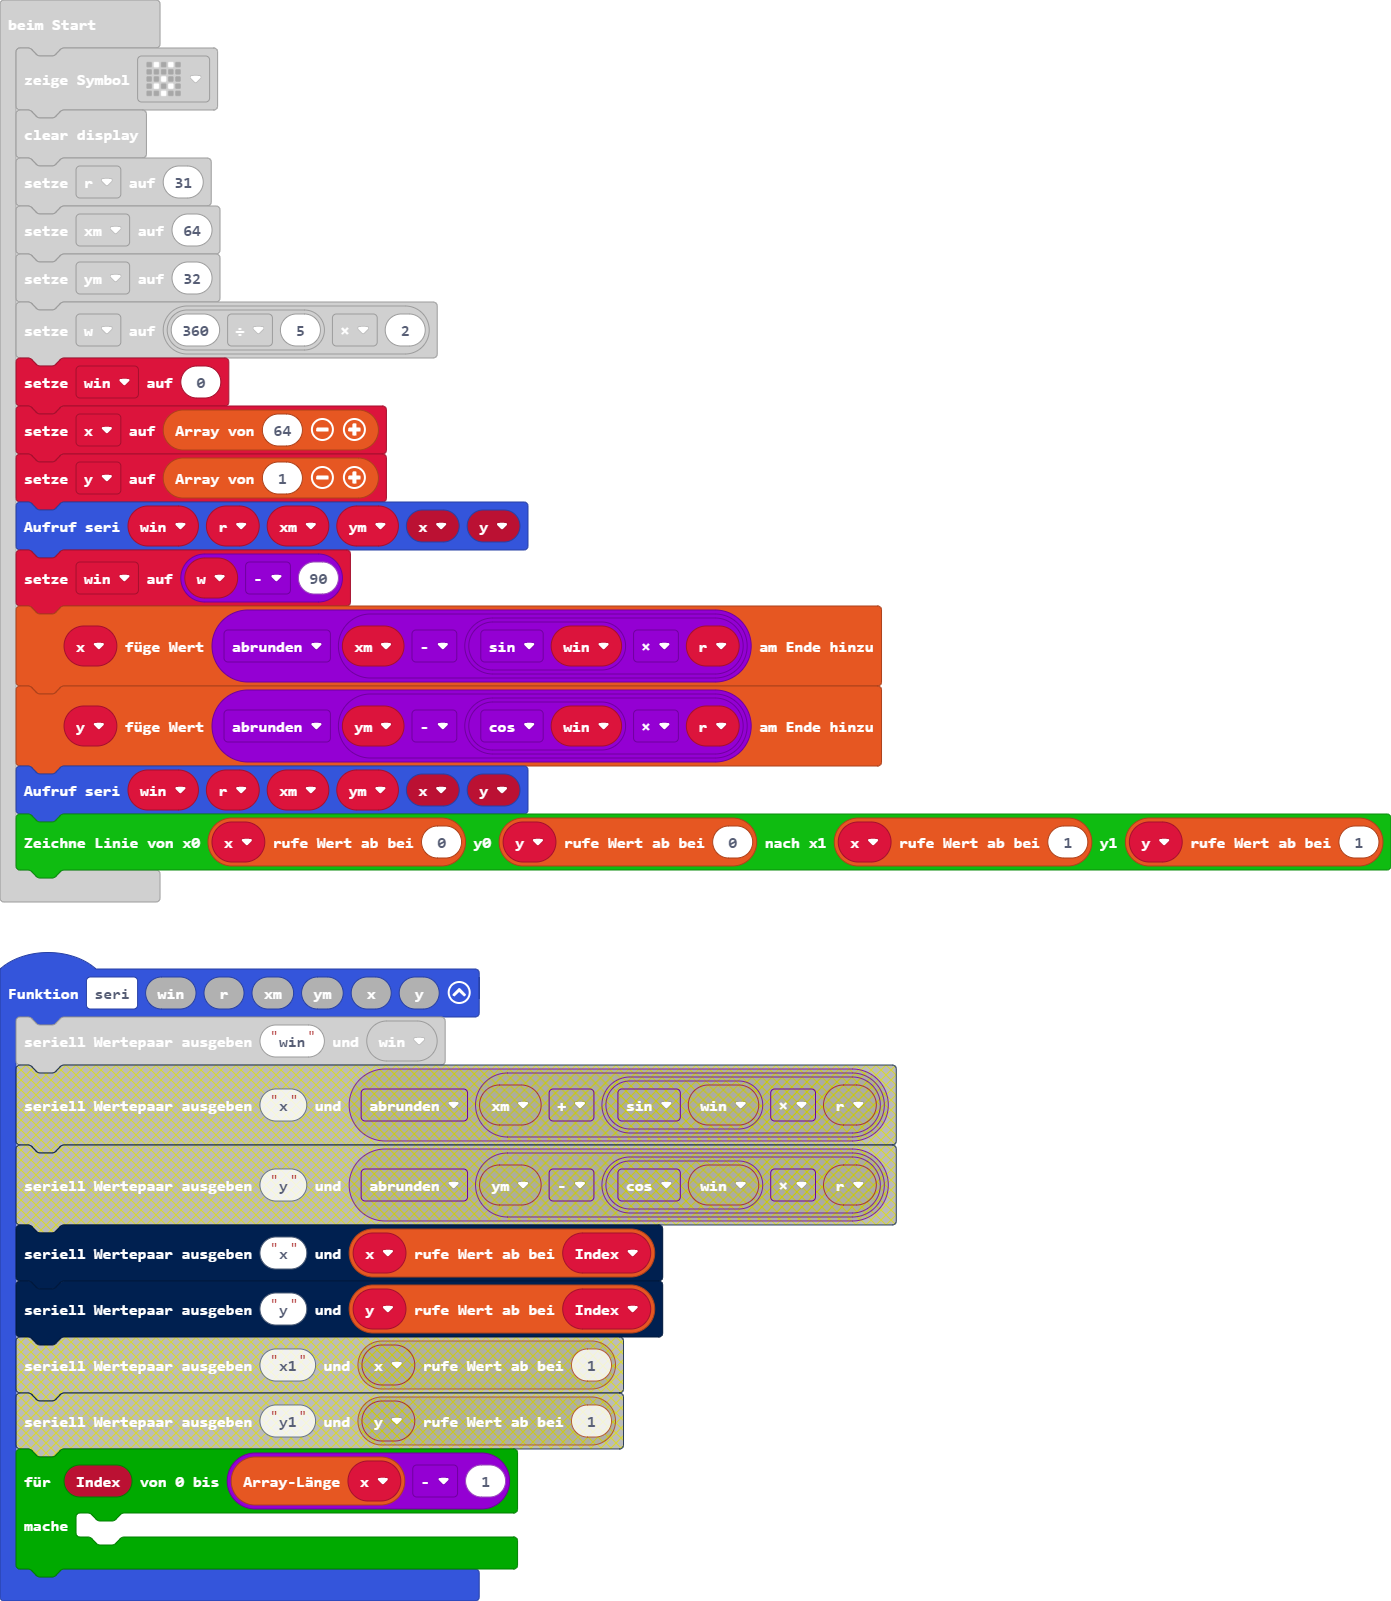
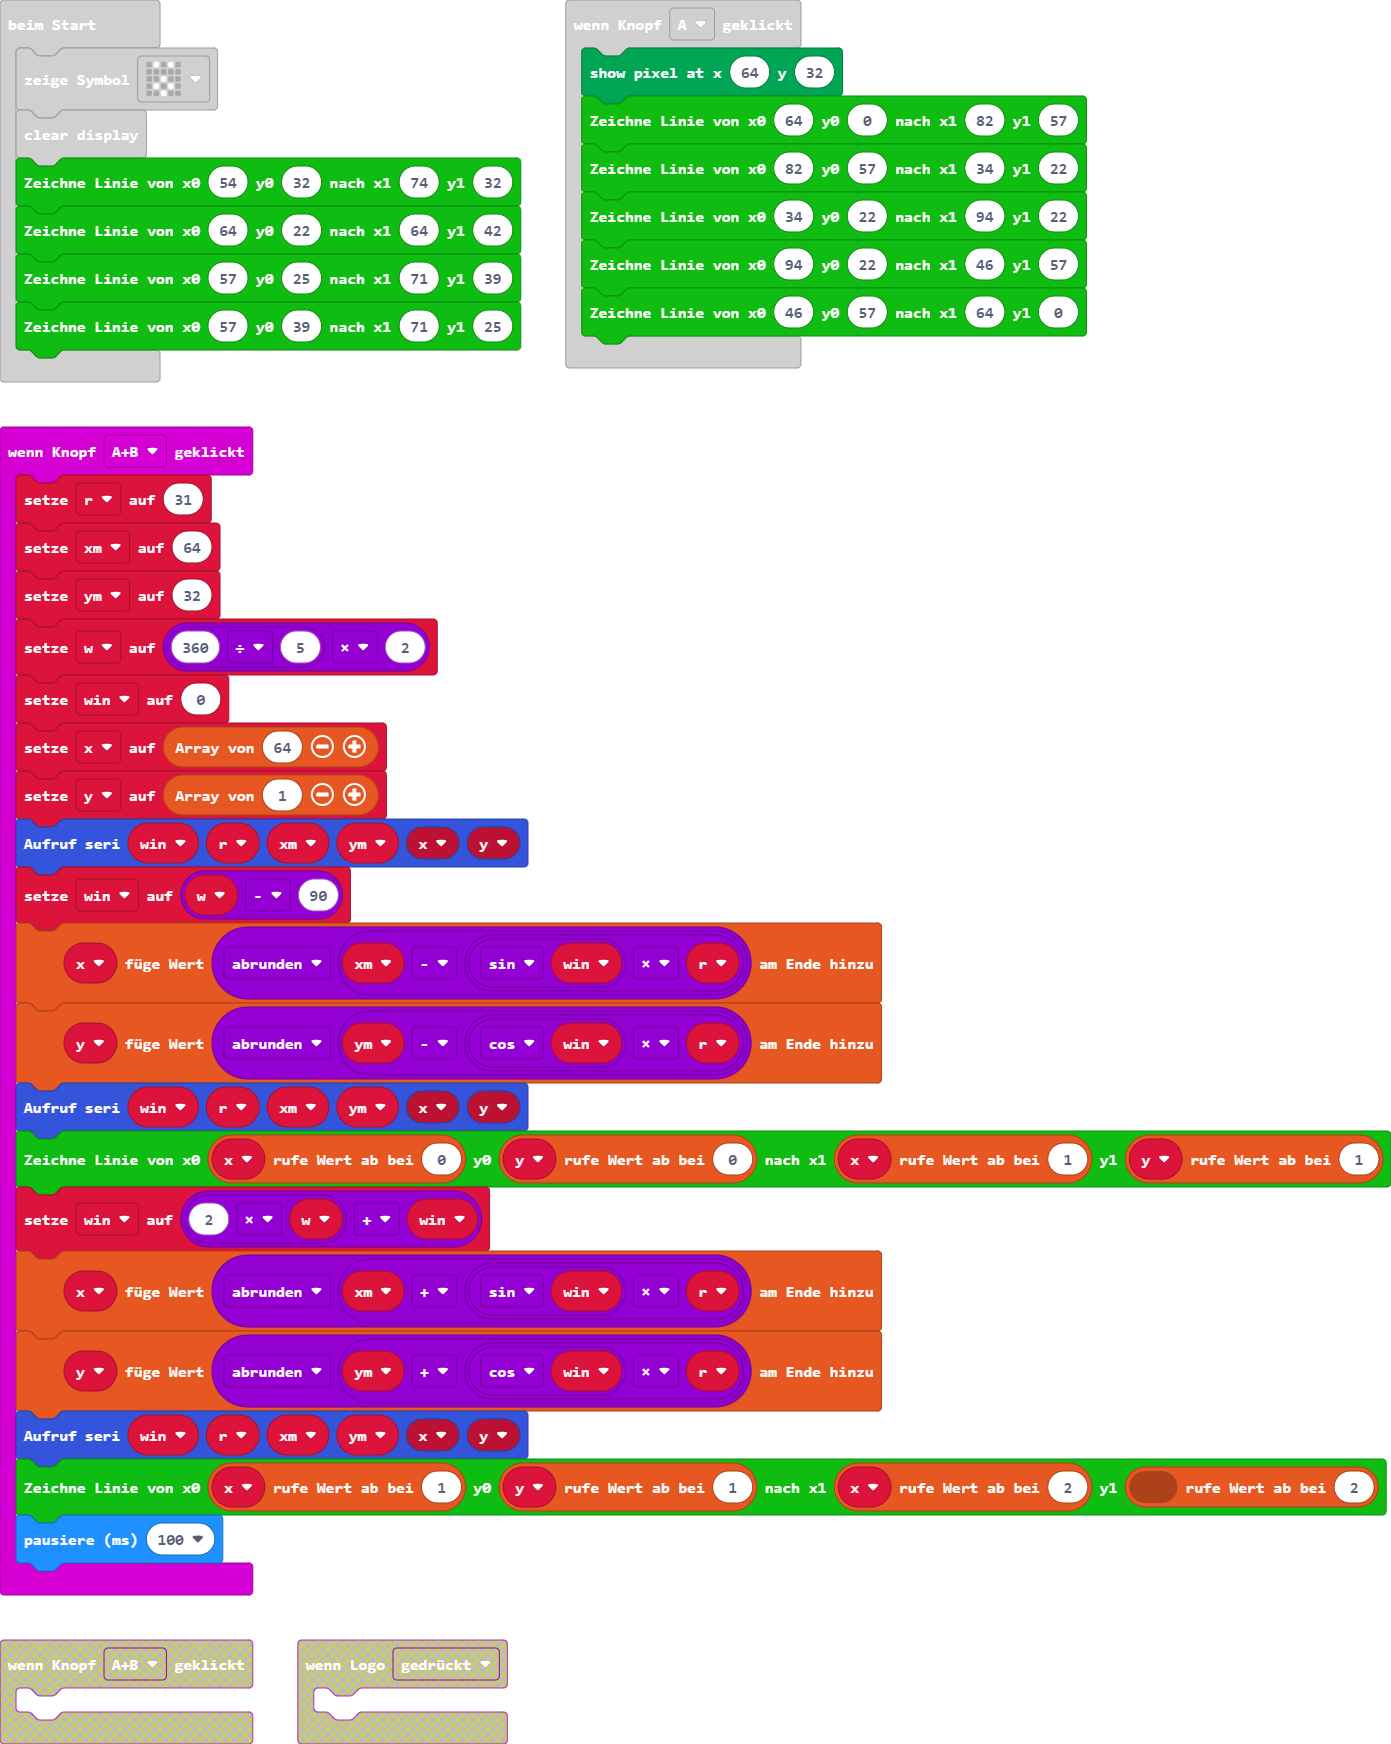
Aktualisiere main.blocks, main.ts

diff --git a/main.ts b/main.ts
@@ -1,7 +1,5 @@
-input.onLogoEvent(TouchButtonEvent.Pressed, function () {
-	
-})
 input.onButtonPressed(Button.A, function () {
+    kitronik_VIEW128x64.setPixel(64, 32)
     oled_z.oled_Line1(64, 0, 82, 57)
     oled_z.oled_Line1(82, 57, 34, 22)
     oled_z.oled_Line1(34, 22, 94, 22)
@@ -16,24 +14,39 @@ function seri (win: number, r: number, xm: number, ym: number, x: number[], y: n
     }
 }
 input.onButtonPressed(Button.AB, function () {
-	
+    r = 31
+    xm = 64
+    ym = 32
+    w = 360 / 5 * 2
+    win = 0
+    x = [64]
+    y = [1]
+    seri(win, r, xm, ym, x, y)
+    win = w - 90
+    x.push(Math.floor(xm - Math.sin(win) * r))
+    y.push(Math.floor(ym - Math.cos(win) * r))
+    seri(win, r, xm, ym, x, y)
+    oled_z.oled_Line1(x[0], y[0], x[1], y[1])
+    win = 2 * w + win
+    x.push(Math.floor(xm + Math.sin(win) * r))
+    y.push(Math.floor(ym + Math.cos(win) * r))
+    seri(win, r, xm, ym, x, y)
+    oled_z.oled_Line1(x[1], y[1], x[2], [0][2])
+    basic.pause(100)
 })
 input.onButtonPressed(Button.B, function () {
     oled_z.Kreis(64, 32, 31)
 })
+let y: number[] = []
+let x: number[] = []
+let w = 0
+let ym = 0
+let xm = 0
+let r = 0
 let win = 0
 basic.showIcon(IconNames.Surprised)
 kitronik_VIEW128x64.clear()
-let r = 31
-let xm = 64
-let ym = 32
-let w = 360 / 5 * 2
-win = 0
-let x = [64]
-let y = [1]
-seri(win, r, xm, ym, x, y)
-win = w - 90
-x.push(Math.floor(xm - Math.sin(win) * r))
-y.push(Math.floor(ym - Math.cos(win) * r))
-seri(win, r, xm, ym, x, y)
-oled_z.oled_Line1(x[0], y[0], x[1], y[1])
+oled_z.oled_Line1(54, 32, 74, 32)
+oled_z.oled_Line1(64, 22, 64, 42)
+oled_z.oled_Line1(57, 25, 71, 39)
+oled_z.oled_Line1(57, 39, 71, 25)
